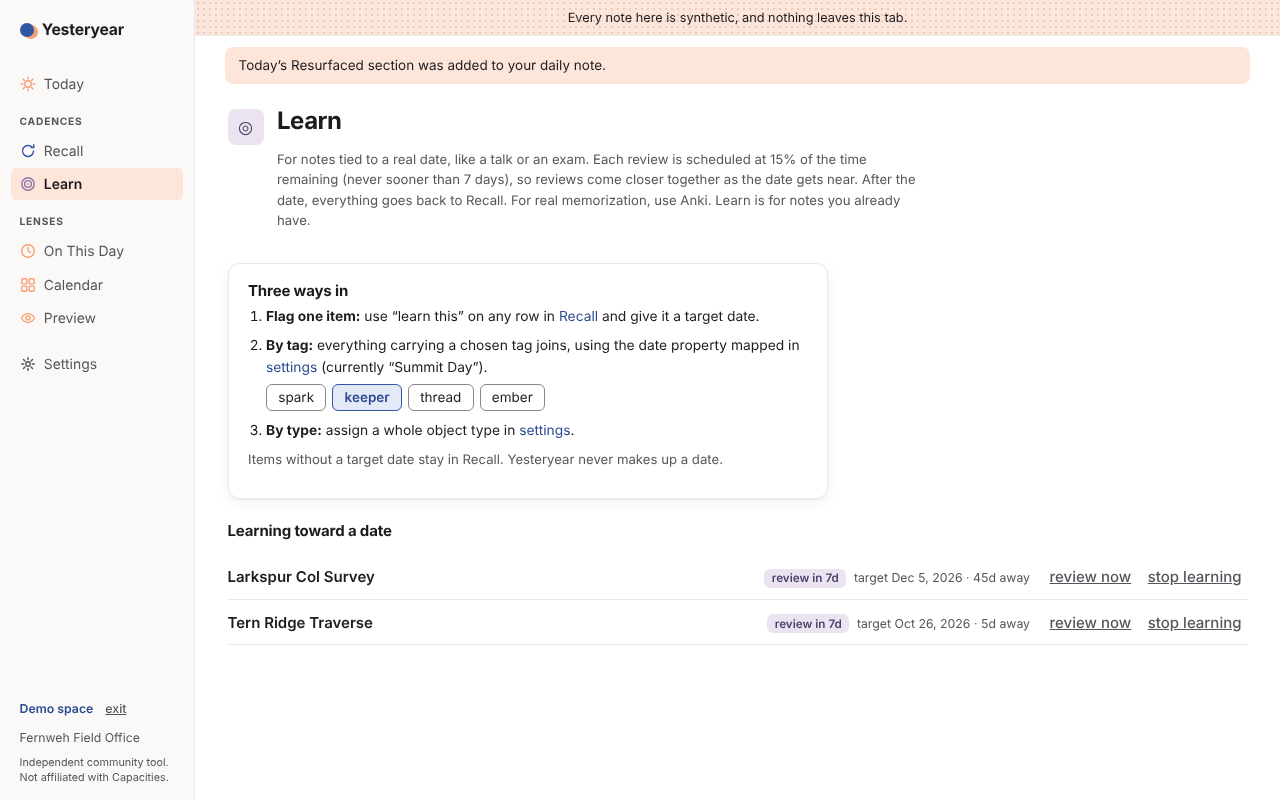
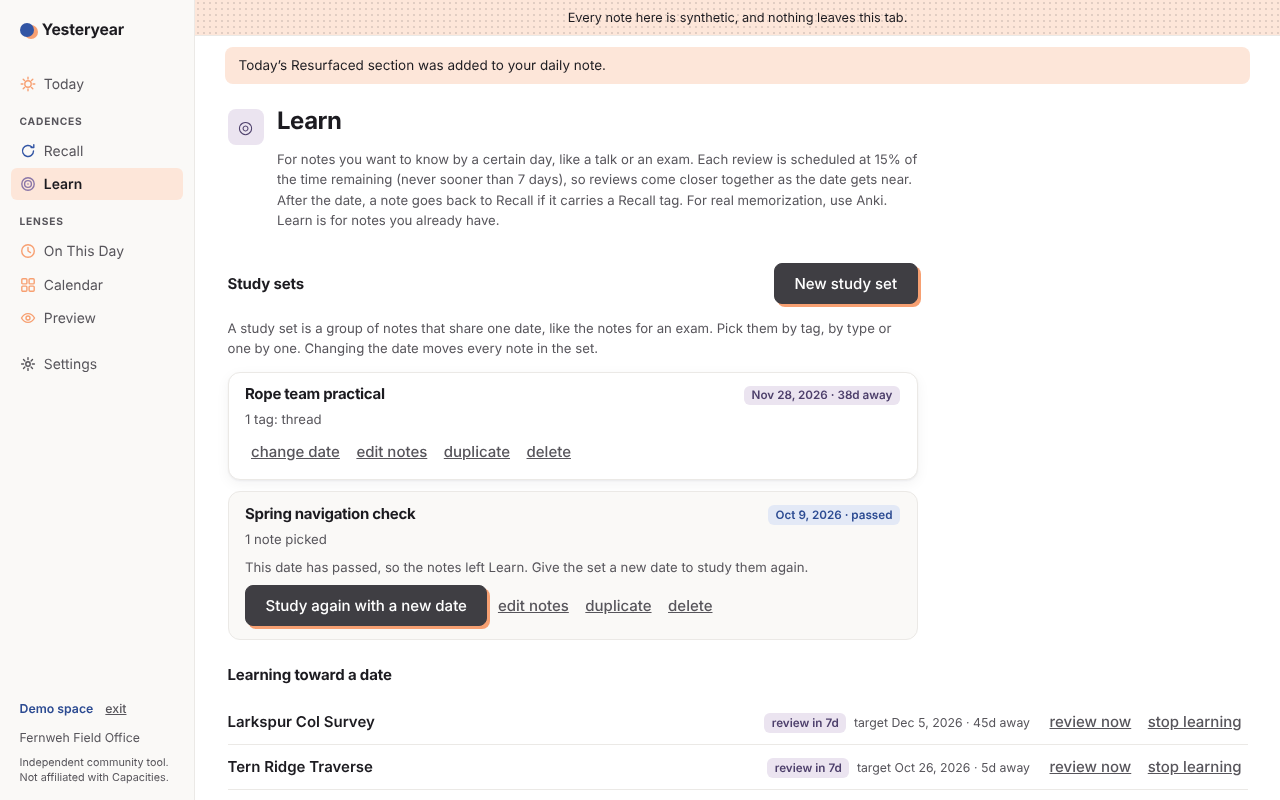
Add a "Study toward a date" section to the landing page
The landing page named the date-based review only in passing. It now has
its own section: study sets, choosing notes by tag, type or one at a
time, a date for the set, and a new date for an exam you sit again. The
Learn screenshot is regenerated from the demo, which now shows a set
ahead and one whose date has passed.

Claude-Session: https://claude.ai/code/session_01XyBWC8TmZ3wJ53RBrvemRi

diff --git a/src/landing/main.tsx b/src/landing/main.tsx
@@ -1,6 +1,7 @@
 import { render } from 'preact';
 import todayShot from '../../docs/today.png';
 import calendarShot from '../../docs/calendar.png';
+import learnShot from '../../docs/learn.png';
 
 /**
  * The landing page: what it is, what it looks like, and the privacy
@@ -31,6 +32,26 @@ function Landing() {
       <img
         src={todayShot}
         alt="Today in a made-up field office space: four resurfaced notes with tinted labels, and an unlikely pair shown as two overlapping prints."
+      />
+
+      <h2>Study toward a date</h2>
+      <p>
+        Some notes matter by a certain day, like a talk or an exam. Put them in
+        a study set, choosing them by tag, by object type, or one at a time with
+        a search, and give the set a date. Yesteryear spaces the reviews out,
+        with each gap set at 15% of the time left, so they come closer together
+        as the day gets near. The first review waits at least a week.
+      </p>
+      <p>
+        Sitting the same exam again? Give the set a new date and the same notes
+        study toward it. Learn works on the notes you already have. There are
+        no cards to make and no grades to give: you see the note and answer
+        with a tap. For heavier memorising, Anki is the better tool.
+      </p>
+
+      <img
+        src={learnShot}
+        alt="The Learn page in a made-up field office space: two study sets, one counting down to its date and one whose date has passed, and the notes now studying toward a date."
       />
 
       <h2>No server</h2>

diff --git a/src/app/styles.css b/src/app/styles.css
@@ -1208,6 +1208,14 @@ a.note-title {
   padding: 0.35rem 0.55rem;
 }
 
+/* Chromium does not always match :focus-visible while a date field's
+   month, day or year part has focus, so a focused date input shows the
+   ring itself. */
+.field input[type='date']:focus {
+  outline: 2px solid var(--focus);
+  outline-offset: 2px;
+}
+
 .property-dates summary {
   cursor: pointer;
   font-weight: 600;
